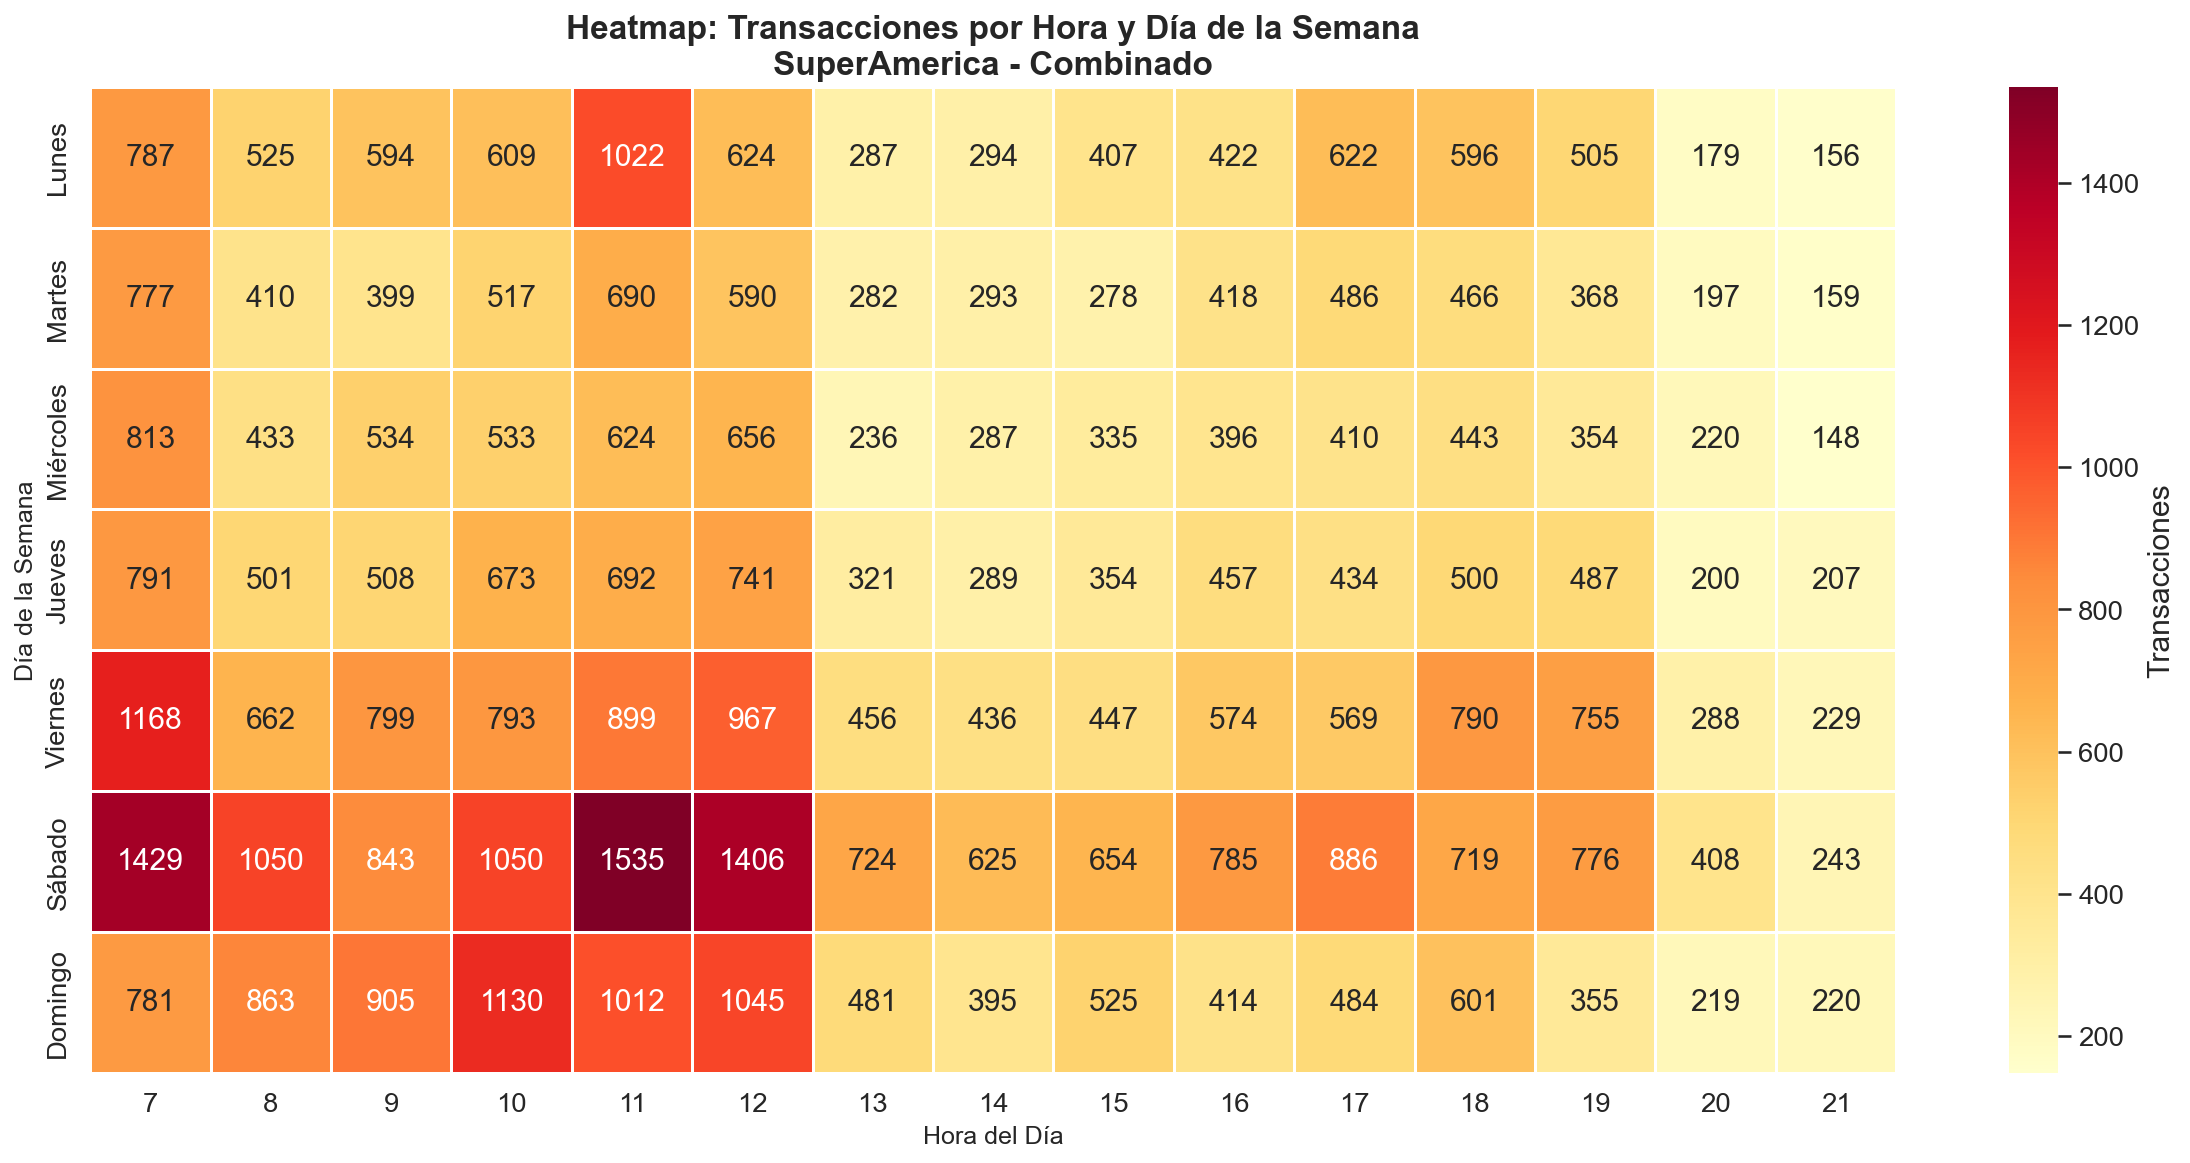
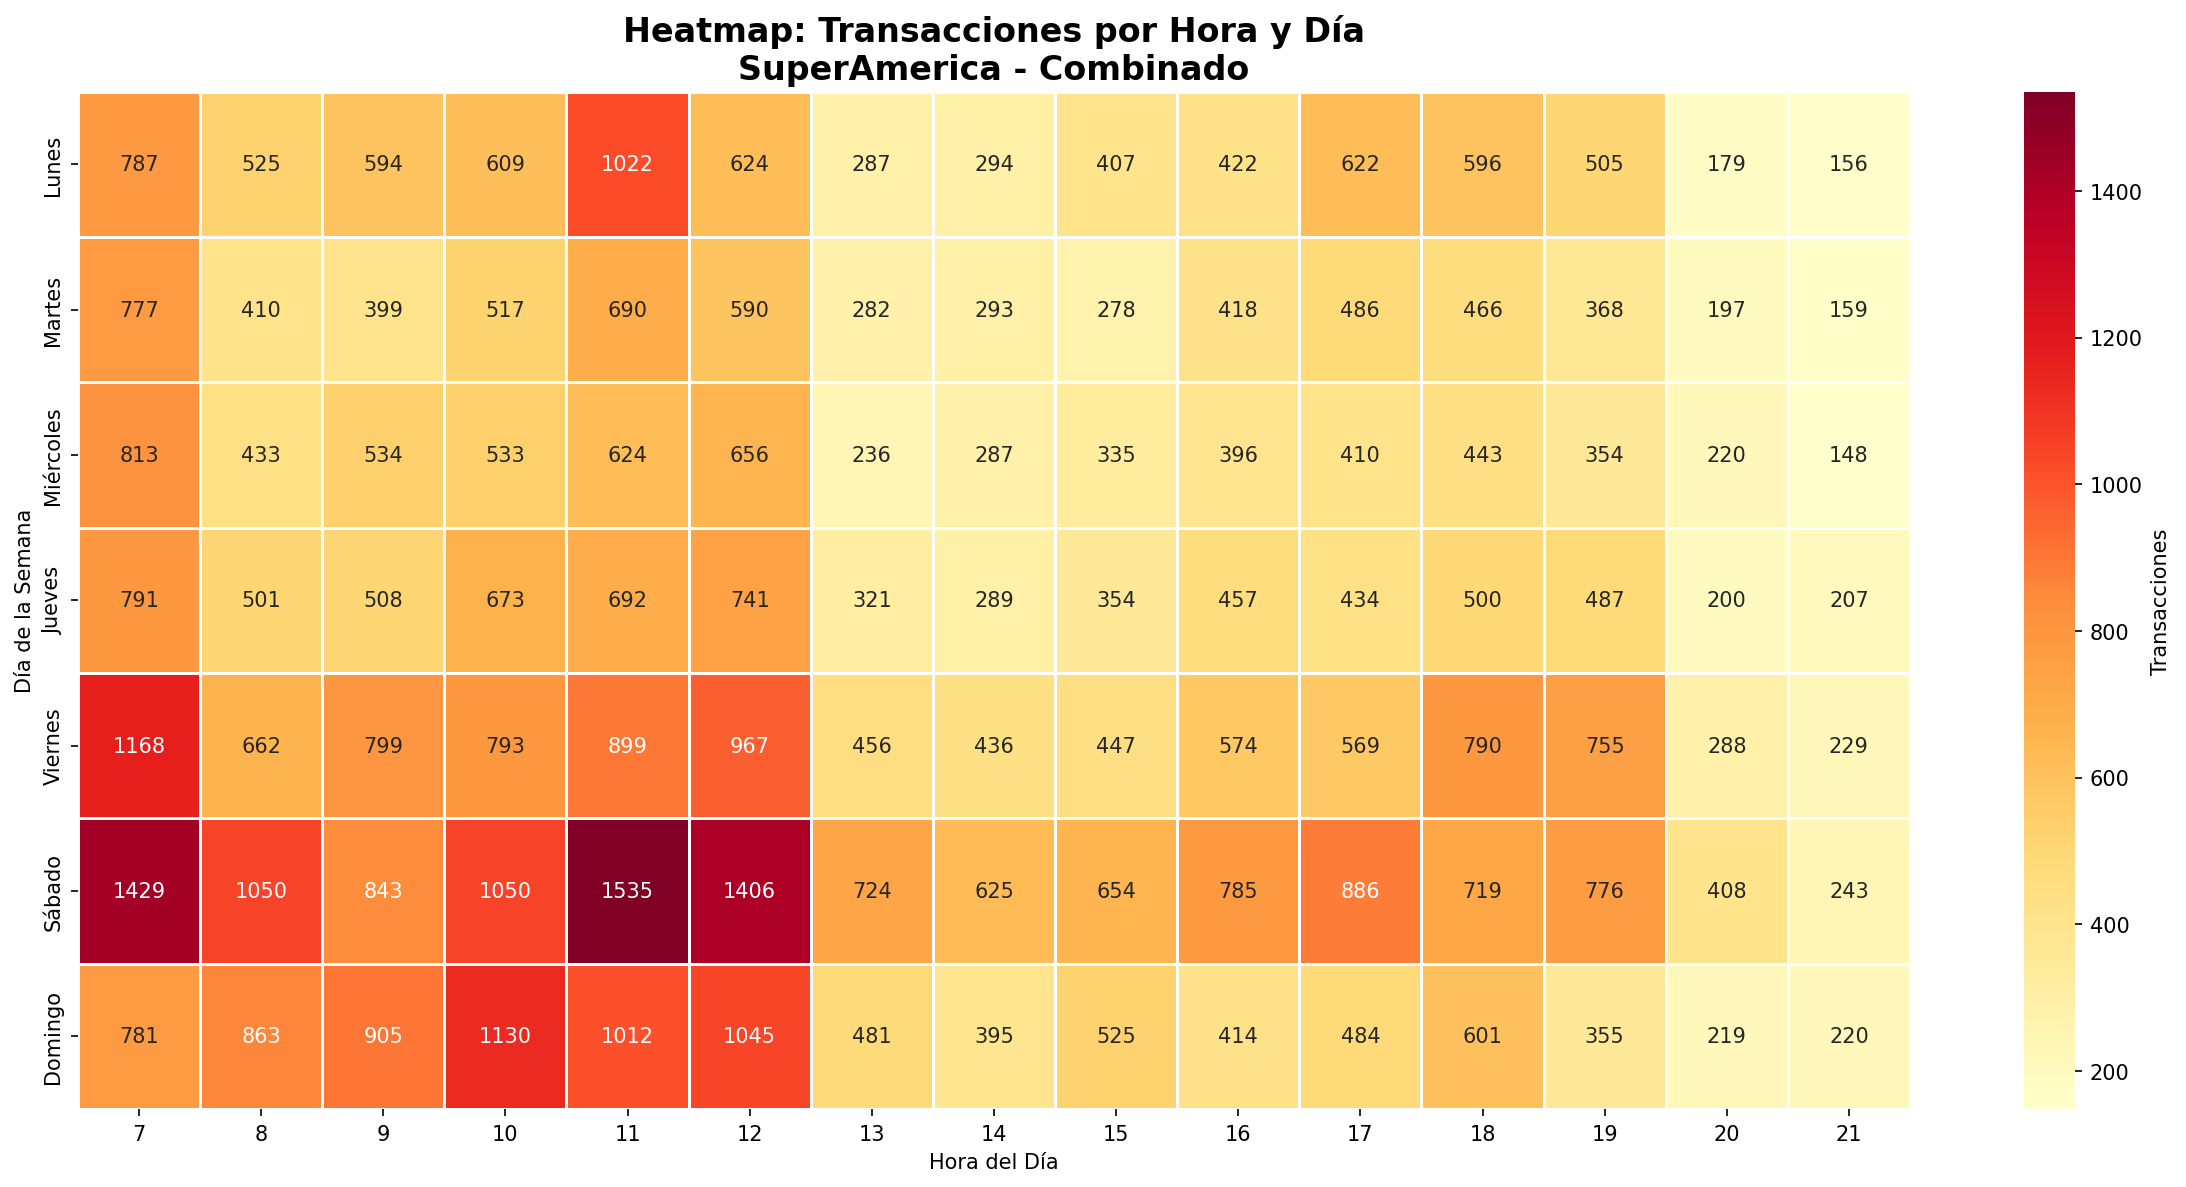
Optimize heatmap script - 80% smaller code

Changed region(s): [[0.0, 0.0, 0.871, 0.9905], [0.9021, 0.0619, 0.9954, 0.9596]]

diff --git a/Python/reportes/heatmap_hora_dia.py b/Python/reportes/heatmap_hora_dia.py
@@ -1,197 +1,60 @@
-"""
-Heatmap Hora x Dia - SuperAmerica
-Análisis de horas pico para optimizar staffing y reabastecimiento
-Genera 3 heatmaps: Enero, Febrero, y Combinado
-"""
-
+"""Heatmap Hora x Dia - SuperAmerica - Optimizado"""
+import os
 import pandas as pd
-import numpy as np
 import matplotlib.pyplot as plt
 import seaborn as sns
 
-#config
-ARCHIVOS_VENTAS = {
-    'Enero': 'datos/Ventas_Enero.xlsx',
-    'Febrero': 'datos/Ventas_Febrero.xlsx'
-}
+# Rutas
+SCRIPT_DIR = os.path.dirname(os.path.abspath(__file__))
+PROJECT_ROOT = os.path.dirname(os.path.dirname(SCRIPT_DIR))
+REPORTES_DIR = SCRIPT_DIR # El script ya está dentro de la carpeta reportes
 
+DIAS = ['Lunes', 'Martes', 'Miércoles', 'Jueves', 'Viernes', 'Sábado', 'Domingo']
+ARCHIVOS = {'Enero': os.path.join(PROJECT_ROOT, 'datos', 'Ventas_Enero.xlsx'),
+            'Febrero': os.path.join(PROJECT_ROOT, 'datos', 'Ventas_Febrero.xlsx')}
 
-# LEER DATOS
+os.makedirs(REPORTES_DIR, exist_ok=True)
 
-dfs = {}
-for mes, archivo in ARCHIVOS_VENTAS.items():
-    try:
-        df = pd.read_excel(archivo)
-        dfs[mes] = df
-        print(f"  - {mes}: {len(df):,} transacciones")
-    except Exception as e:
-        print(f"  - Error leyendo {mes}: {e}")
-
-
-
-
-# PROCESAR DATOS
-def procesar_dataframe(df, mes_nombre):
-    """Procesa un DataFrame y retorna datos para heatmap"""
+#cargar datos
+def cargar_datos():
+    return {mes: pd.read_excel(arch) for mes, arch in ARCHIVOS.items()}
+#procesar datos
+def procesar(df):
     df = df.copy()
-
-    # Intentar parsear hora de diferentes formatos por multipliples formatos
-    try:
-        df['Hora'] = pd.to_datetime(df['Hora'], format='%H:%M:%S', errors='coerce')
-    except:
-        try:
-            df['Hora'] = pd.to_datetime(df['Hora'], format='%I:%M:%S %p', errors='coerce')
-        except:
-            df['Hora'] = pd.to_datetime(df['Hora'], errors='coerce')
-
-    df['Hora_num'] = df['Hora'].dt.hour
-    df['Dia_semana'] = pd.to_datetime(df['Fecha'], errors='coerce').dt.dayofweek
-
-    # Mapa de días en español
-    dias = {
-        0: 'Lunes',
-        1: 'Martes',
-        2: 'Miércoles',
-        3: 'Jueves',
-        4: 'Viernes',
-        5: 'Sábado',
-        6: 'Domingo'
-    }
-    df['Dia_nombre'] = df['Dia_semana'].map(dias)
-
-    # Filtrar horas de operación (7:00 - 21:00)
-    df = df[(df['Hora_num'] >= 7) & (df['Hora_num'] <= 21)]
-
+    df['Hora'] = pd.to_datetime(df['Hora'], errors='coerce').dt.hour
+    df['Dia'] = pd.to_datetime(df['Fecha'], errors='coerce').dt.dayofweek
+    df = df[(df['Hora'] >= 7) & (df['Hora'] <= 21)]
     return df
 
-# Procesar cada mes
-datos_procesados = {}
-for mes, df in dfs.items():
-    datos_procesados[mes] = procesar_dataframe(df, mes)
-    print(f"  {mes} - Transacciones en horario válido (7-21): {len(datos_procesados[mes]):,}")
-
-# Crear DataFrame combinado
-df_combinado = pd.concat(datos_procesados.values(), ignore_index=True)
-datos_procesados['Combinado'] = df_combinado
-print(f"\nTotal combinado: {len(df_combinado):,} transacciones")
-
-
-
-# CREAR HEATMAPS
-def crear_heatmap(data, titulo, nombre_archivo):
-    """Genera un heatmap para los datos dados"""
-    # Crear matriz pivote
-    heatmap_data = data.pivot_table(
-        index='Dia_nombre',
-        columns='Hora_num',
-        values='ID_Compra',
-        aggfunc='count',
-        fill_value=0
-    )
-
-    # Ordenar días de la semana
-    orden_dias = ['Lunes', 'Martes', 'Miércoles', 'Jueves', 'Viernes', 'Sábado', 'Domingo']
-    heatmap_data = heatmap_data.reindex(orden_dias)
-
-    # Generar visualización
+#crear heatmap con matplotlib y seaborn
+def crear_heatmap(data, titulo, archivo):
+    matriz = data.pivot_table(index='Dia', columns='Hora', values='ID_Compra', aggfunc='count', fill_value=0)
+    matriz.index = [DIAS[d] for d in matriz.index]
     plt.figure(figsize=(16, 8))
-    sns.set(font_scale=1.2)
-
-    ax = sns.heatmap(
-        heatmap_data,
-        annot=True,
-        fmt='d',
-        cmap='YlOrRd',
-        linewidths=0.5,
-        cbar_kws={'label': 'Transacciones'}
-    )
-
-    plt.title(f'Heatmap: Transacciones por Hora y Día de la Semana\nSuperAmerica - {titulo}', fontsize=16, fontweight='bold')
-    plt.xlabel('Hora del Día', fontsize=12)
-    plt.ylabel('Día de la Semana', fontsize=12)
-    plt.xticks(rotation=0)
-
-    # Guardar imagen
+    sns.heatmap(matriz, annot=True, fmt='d', cmap='YlOrRd', linewidths=0.5, cbar_kws={'label': 'Transacciones'})
+    plt.title(f'Heatmap: Transacciones por Hora y Día\nSuperAmerica - {titulo}', fontsize=16, fontweight='bold')
+    plt.xlabel('Hora del Día')
+    plt.ylabel('Día de la Semana')
     plt.tight_layout()
-    plt.savefig(f'reportes/{nombre_archivo}', dpi=150, bbox_inches='tight')
+    #Crear el heatmap
+    path_img = os.path.join(REPORTES_DIR, archivo)
+    path_csv = os.path.join(REPORTES_DIR, archivo.replace(".png", ".csv"))
+    
+    plt.savefig(path_img, dpi=150, bbox_inches='tight')
+    matriz.to_csv(path_csv)
     plt.close()
 
-    # Guardar CSV
-    heatmap_data.to_csv(f'reportes/{nombre_archivo.replace(".png", ".csv")}')
+def main():
+    #cargar datos
+    datos = {k: procesar(v) for k, v in cargar_datos().items()}
+    #combinar datos
+    datos['Combinado'] = pd.concat(datos.values())
+    #crear heatmap
+    for nombre, df in datos.items():
+        crear_heatmap(df, nombre, f'heatmap_hora_dia_{nombre.lower()}.png')
+    #hora pico
+    hc = datos['Combinado'].pivot_table(index='Dia', columns='Hora', values='ID_Compra', aggfunc='count', fill_value=0)
+    print(f"Hora pico: {hc.mean(axis=0).idxmax()}:00 | Día más ocupado: {DIAS[hc.sum(axis=1).idxmax()]}")
 
-    return heatmap_data
-
-
-# GENERAR CADA HEATMAP
-print("\n" + "="*60)
-print("GENERANDO HEATMAPS")
-print("="*60)
-
-for nombre, data in datos_procesados.items():
-    titulo = nombre
-    archivo = f'heatmap_hora_dia_{nombre.lower()}.png'
-
-    heatmap_data = crear_heatmap(data, titulo, archivo)
-    print(f"\n{titulo}:")
-    print(f"  - Imagen: reportes/{archivo}")
-    print(f"  - CSV: reportes/{archivo.replace('.png', '.csv')}")
-
-    # Análisis de insights por mes
-    if nombre != 'Combinado':
-        hora_pico = heatmap_data.mean(axis=0).idxmax()
-        transacciones_hora_pico = heatmap_data.mean(axis=0).max()
-        dia_pico = heatmap_data.sum(axis=1).idxmax()
-        transacciones_dia_pico = heatmap_data.sum(axis=1).max()
-
-        print(f"  - Hora pico: {hora_pico}:00 (~{transacciones_hora_pico:.0f} trans/hora)")
-        print(f"  - Día más ocupado: {dia_pico} ({transacciones_dia_pico:,} trans)")
-
-
-# ANÁLISIS COMBINADO
-print("\n" + "="*60)
-print("ANÁLISIS COMBINADO (Enero + Febrero)")
-print("="*60)
-
-heatmap_combinado = datos_procesados['Combinado'].pivot_table(
-    index='Dia_nombre',
-    columns='Hora_num',
-    values='ID_Compra',
-    aggfunc='count',
-    fill_value=0
-).reindex(['Lunes', 'Martes', 'Miércoles', 'Jueves', 'Viernes', 'Sábado', 'Domingo'])
-
-# Hora pico promedio
-hora_pico = heatmap_combinado.mean(axis=0).idxmax()
-transacciones_hora_pico = heatmap_combinado.mean(axis=0).max()
-print(f"\nHora pico promedio: {hora_pico}:00 ({transacciones_hora_pico:.0f} transacciones)")
-
-# Día más ocupado
-dia_pico = heatmap_combinado.sum(axis=1).idxmax()
-transacciones_dia_pico = heatmap_combinado.sum(axis=1).max()
-print(f"Día más concurrido: {dia_pico} ({transacciones_dia_pico:,} transacciones)")
-
-# Top 3 horas pico
-print("\nTop 3 Horas Pico:")
-for hora, count in heatmap_combinado.mean(axis=0).sort_values(ascending=False).head(3).items():
-    print(f"  {hora}:00 - {count:.0f} transacciones promedio")
-
-# Distribución por período
-manana = heatmap_combinado[[7, 8, 9, 10, 11]].sum().sum()
-tarde = heatmap_combinado[[12, 13, 14, 15, 16, 17]].sum().sum()
-noche = heatmap_combinado[[18, 19, 20, 21]].sum().sum()
-total = manana + tarde + noche
-
-print(f"\nDistribución por período:")
-print(f"  Mañana (7-11):  {manana:,} ({manana/total*100:.1f}%)")
-print(f"  Tarde (12-17):  {tarde:,} ({tarde/total*100:.1f}%)")
-print(f"  Noche (18-21):  {noche:,} ({noche/total*100:.1f}%)")
-
-# Hora más tranquila
-hora_baja = heatmap_combinado.mean(axis=0).idxmin()
-print(f"\nHora más tranquila: {hora_baja}:00")
-
-
-print("ARCHIVOS GENERADOS:")
-print("  - reportes/heatmap_hora_dia_enero.png")
-print("  - reportes/heatmap_hora_dia_febrero.png")
-print("  - reportes/heatmap_hora_dia_combinado.png")
+if __name__ == '__main__':
+    main()
